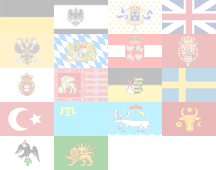
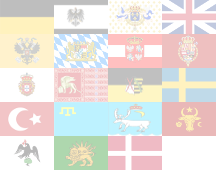
adding denmark

Changed region(s): [[0.5, 0.7941, 0.75, 1.0]]

diff --git a/include/xviii/Core/TextureManager.h b/include/xviii/Core/TextureManager.h
@@ -27,14 +27,14 @@ class TextureManager : public sf::NonCopyable
 public:
 	using texturePtr = std::unique_ptr<sf::Texture>;
 
-	enum class Unit{INF, CAV, CUIR, LCAV, DRAG, 
-					ART, MOR, GEN, GRE, LINF, 
+	enum class Unit{INF, CAV, CUIR, LCAV, DRAG,
+					ART, MOR, GEN, GRE, LINF,
 					SAP, HINF, ARTGUARD, PIKE, LAN,
 					ARMLAN, IRR, HARCH, LART, LDRAG};
 
 	enum class Terrain{MEADOW, HILLS, MUD, ROAD, SLOPES, URBAN, WATER, WOODS};
 	enum class UI{RECTANGLE, BUTTON};
-	enum class Flag{AUS,PRU,FRA, GBR, RUS, BAV, COM, SPA, POR, VEN, SAX, SWE, OTO, CRI, IME, MOL, WAL, PER};
+	enum class Flag{AUS,PRU,FRA, GBR, RUS, BAV, COM, SPA, POR, VEN, SAX, SWE, OTO, CRI, IME, MOL, WAL, PER, DEN};
 
 	TextureManager();
 
@@ -45,7 +45,7 @@ public:
 
 	inline sf::Vector2i getSize() const{ return size; };
 	inline sf::Vector2i getCounterSize() const{ return counterSize; };
-    //Used for the vertex array (for terrain tiles)	
+    //Used for the vertex array (for terrain tiles)
 	inline sf::Texture& getTerrainTexture() const{ return *terrain; };
 	// Used for the vertex array(for unit tiles)
 	inline sf::Texture& getUnitTexture() const{ return *units; };

diff --git a/include/xviii/Core/Player.h b/include/xviii/Core/Player.h
@@ -36,13 +36,14 @@ class SpawnableUnit;
 	X(Player::Nation::SWE, TextureManager::Flag::SWE, "Sweden")\
 	X(Player::Nation::VEN, TextureManager::Flag::VEN, "Venice")\
 	X(Player::Nation::WAL, TextureManager::Flag::WAL, "Wallachia")\
-	X(Player::Nation::PER, TextureManager::Flag::PER, "Persia")
+	X(Player::Nation::PER, TextureManager::Flag::PER, "Persia")\
+	X(Player::Nation::DEN, TextureManager::Flag::DEN, "Denmark")
 
 class Player
 {
 	friend class SpawnableUnit;
     public:
-		enum class Nation{ALL, AUS, PRU, FRA, GBR, RUS, BAV, COM, SPA, POR, VEN, SAX, SWE, OTO, CRI, IME, MOL, WAL, PER};
+		enum class Nation{ALL, AUS, PRU, FRA, GBR, RUS, BAV, COM, SPA, POR, VEN, SAX, SWE, OTO, CRI, IME, MOL, WAL, PER, DEN};
 		Player(UnitLoader& _unitLoader, World& _world, Nation _nation, boost::random::mt19937& _mt19937, TextureManager& _tm, FontManager& _fm, bool _spawnedAtBottom);
 
 		//Returns true if successfully spawned unit

diff --git a/src/xviii/Core/GameState_SelectNations.cpp b/src/xviii/Core/GameState_SelectNations.cpp
@@ -26,6 +26,7 @@ uiView{sf::FloatRect({}, {}, xResolution, yResolution)}
 	flagMenuItems.push_back({game->mTextureManager.getSprite(TextureManager::Flag::BAV), Player::Nation::BAV});
 	flagMenuItems.push_back({game->mTextureManager.getSprite(TextureManager::Flag::COM), Player::Nation::COM});
 	flagMenuItems.push_back({game->mTextureManager.getSprite(TextureManager::Flag::CRI), Player::Nation::CRI});
+	flagMenuItems.push_back({game->mTextureManager.getSprite(TextureManager::Flag::DEN), Player::Nation::DEN});
 	flagMenuItems.push_back({game->mTextureManager.getSprite(TextureManager::Flag::FRA), Player::Nation::FRA});
 	flagMenuItems.push_back({game->mTextureManager.getSprite(TextureManager::Flag::GBR), Player::Nation::GBR});
 	flagMenuItems.push_back({game->mTextureManager.getSprite(TextureManager::Flag::IME), Player::Nation::IME});

diff --git a/src/xviii/Core/TextureManager.cpp b/src/xviii/Core/TextureManager.cpp
@@ -251,6 +251,10 @@ sf::Sprite TextureManager::getSprite(Flag type){
 	case Flag::PER:
 		rekt = {counterSize.x, 4 * counterSize.y, counterSize.x, counterSize.y};
 		break;
+
+    case Flag::DEN:
+        rekt = {2 * counterSize.x, 4 * counterSize.y, counterSize.x, counterSize.y};
+		break;
 	}
 
 	return{*flags, rekt};
